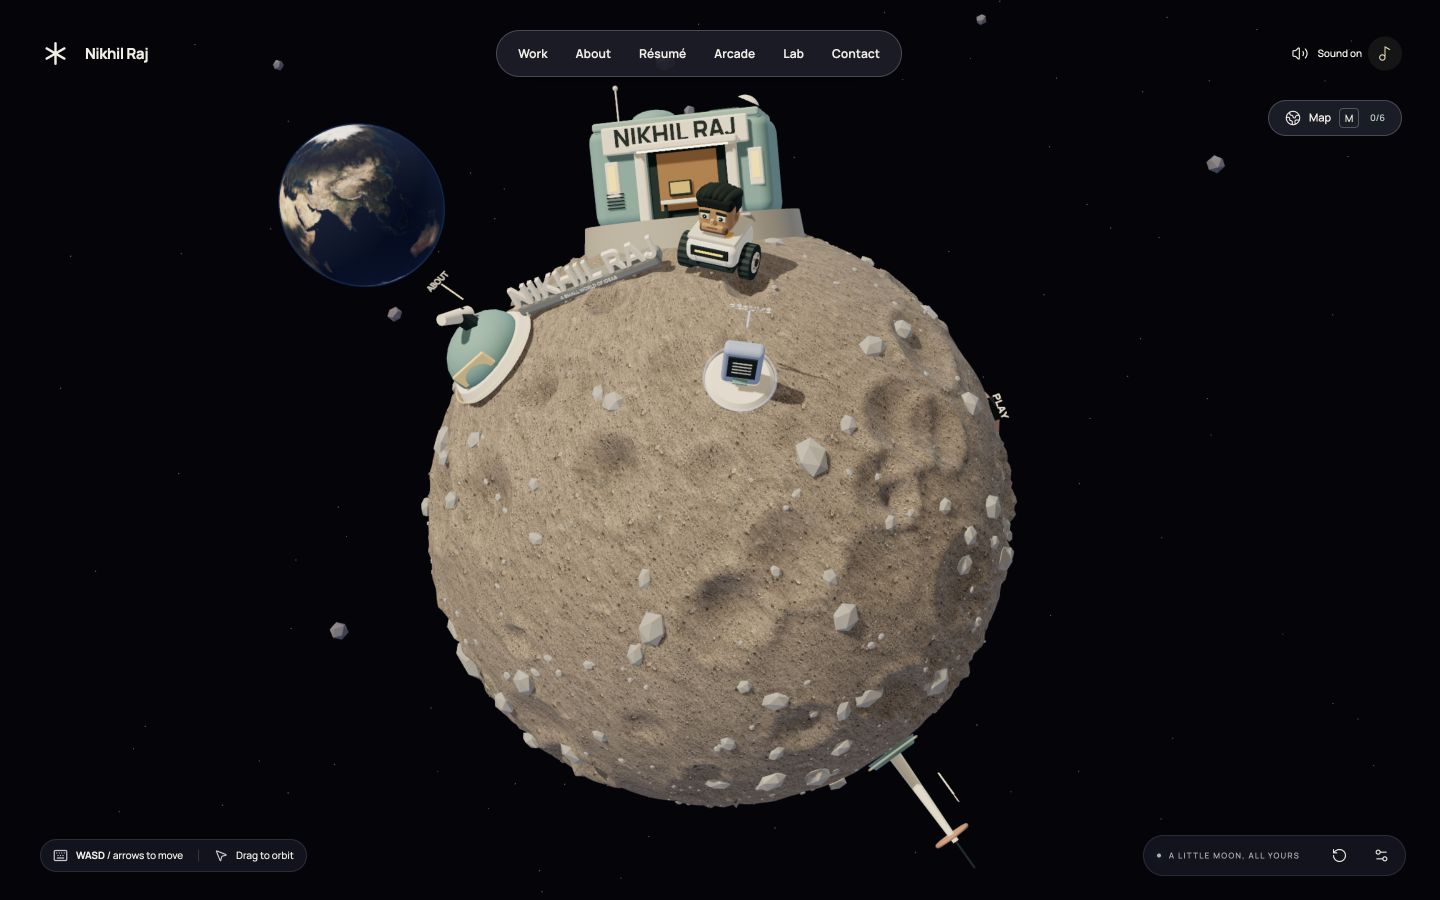
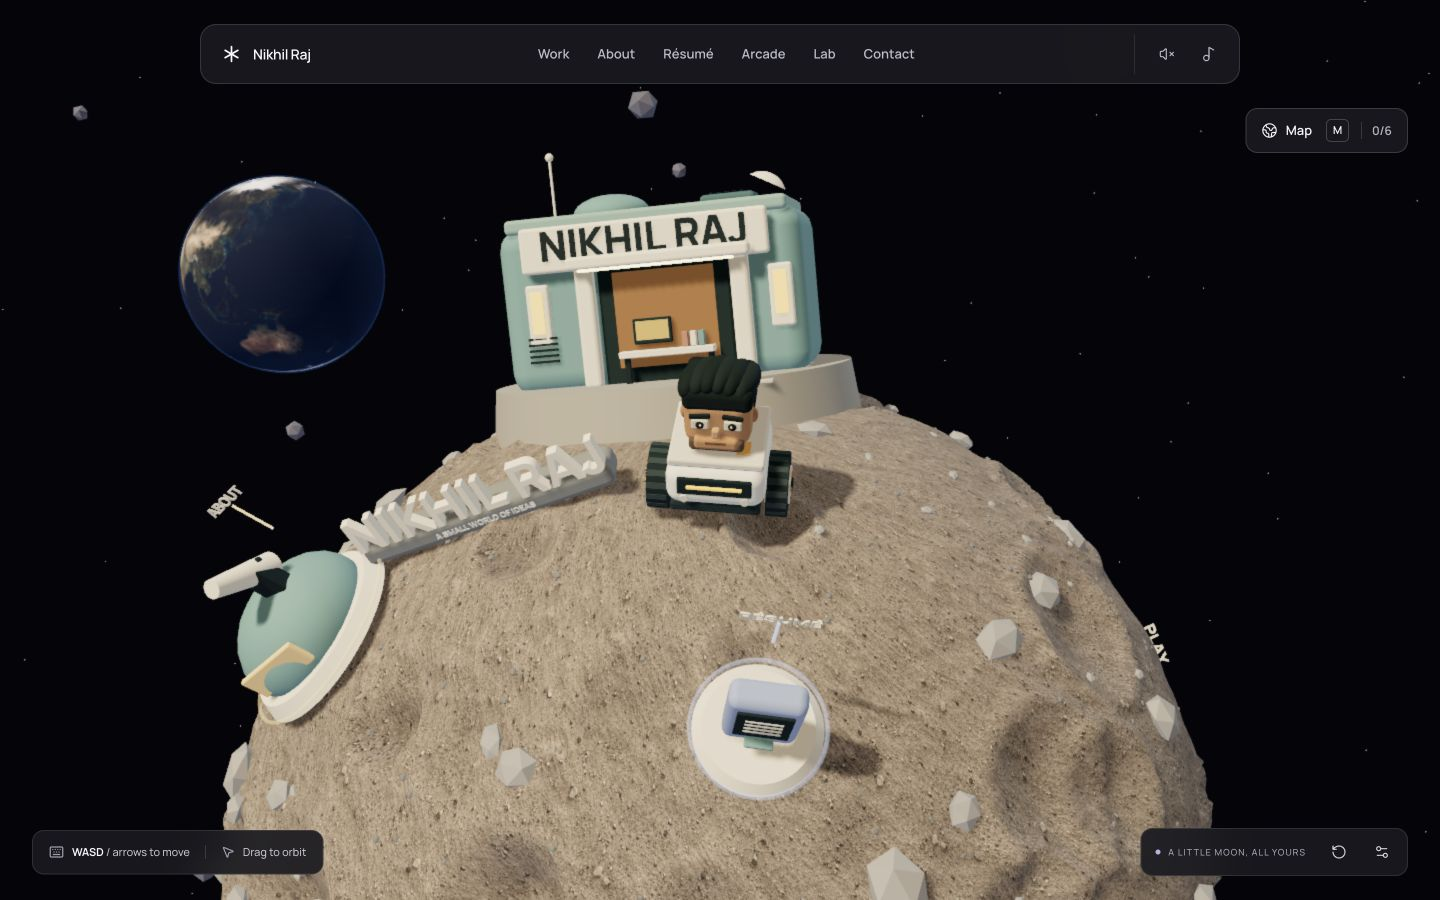
docs: publish refreshed interface screenshots and verification notes

diff --git a/README.md b/README.md
@@ -6,7 +6,7 @@
 
 A playable 3D portfolio on a tiny moon. Drive a curious robot, explore the entire sphere, and follow a few ideas into space.
 
-[Explore the moon](https://nikhil-lunar-toybox.nikhil-063.workers.dev) · [Run locally](#run-locally) · [Controls](#controls) · [Six destinations](docs/MOON-STOPS.md)
+[Explore the moon](https://nikhil-lunar-toybox.nikhil-063.workers.dev) · [Run locally](#run-locally) · [Controls](#controls) · [Six destinations](docs/MOON-STOPS.md) · [Design system](docs/DESIGN-SYSTEM.md)
 
 ![Three.js](https://img.shields.io/badge/Three.js-3D_world-111111?logo=threedotjs)
 ![TypeScript](https://img.shields.io/badge/TypeScript-strict-3178C6?logo=typescript&logoColor=white)
@@ -28,6 +28,14 @@ There is no “enter” button. Your first movement wakes the robot and eases th
 - **Considerate defaults.** Music starts off. Audio unlocks with an interaction. Sound preferences persist, hidden tabs pause playback, and motion follows the device preference.
 
 This build includes six destinations, a supplied backend résumé, two playable arcade games, interactive orbit sketches, optional visit stamps and a far-side postcard camera. Additional projects, biography, experience, field notes and unconfirmed contact details intentionally remain empty.
+
+## A considered interface
+
+The moon sits behind a quiet floating navigation bar. Content opens in light, neutral panels with Manrope throughout, clear card hierarchy, subtle violet selection states and consistent actions. The interface uses free shadcn/ui and Radix foundations, Magic UI reveals, and Motion; the [reference study and CARP rules](docs/DESIGN-SYSTEM.md) explain the design decisions.
+
+![Selected work — image-led project card and the new neutral interface](docs/images/interface-work.png)
+
+All six portfolio stops, the map, arcade, experiments, résumé, contact and settings share the same design system. Mobile panels scroll internally while their heading and return action stay visible. Desktop games put controls beside the board. Original résumé documents retain their supplied formatting.
 
 ## Controls
 
@@ -87,7 +95,8 @@ src/
   visitor-flight.ts    Randomized spacecraft paths
   audio-mix.ts         Sound states, gains and transitions
   audio.ts             Playback, gesture unlock and saved preferences
-  lunar-app.tsx        Portfolio panels and controls
+  lunar-app.tsx        World, audio, panel and focus coordination
+  portfolio-panels.tsx Work, profile, résumé, contact and lab card compositions
   destinations.ts     Typed stops, footprints and collision-safe quick travel
   destination-ui.tsx  Accessible globe map and interactive orbit sketches
   arcade-rules.ts     Pure Snake and Snakes & Ladders rules
@@ -102,7 +111,7 @@ scripts/               Model export and guarded deployment
 tests/                 Focused behavior checks
 ```
 
-Edit `src/content.ts` for identity and contact details, and `src/lunar-app.tsx` for project cards, experience and field notes. Unconfigured contact links are intentionally omitted. The supplied résumé is preserved unchanged; its statements are not used to fill biography or experience automatically. Update its PDF and preview together. Optional visit stamps and game records are stored locally and tolerate blocked storage. See [editing, storage and source boundaries](docs/MOON-STOPS.md). The optional `nikhil-bot.glb` is an interchange export; regenerate it with `npm run export:robot`.
+Edit `src/content.ts` for identity and contact details, and `src/portfolio-panels.tsx` for project cards, experience and field notes. Unconfigured contact links are intentionally omitted. The supplied résumé is preserved unchanged; its statements are not used to fill biography or experience automatically. Update its PDF and preview together. Optional visit stamps and game records are stored locally and tolerate blocked storage. See [editing, storage and source boundaries](docs/MOON-STOPS.md). The optional `nikhil-bot.glb` is an interchange export; regenerate it with `npm run export:robot`.
 
 Diagnostic routes: `?debug=1` exposes read-only world/audio data, `?renderer=webgl` selects the fallback renderer, `?quality=low` lowers rendering cost, and `?flat=1` opens the simple portfolio.
 

diff --git a/docs/UI-VERIFICATION.md b/docs/UI-VERIFICATION.md
@@ -1,0 +1,25 @@
+# Interface verification — 8 October 2026
+
+## Scope
+
+UI redesign after `ee17d50`. World geometry, movement, collision rules, audio assets, destination data and original résumé files are unchanged. The new interface is documented in [DESIGN-SYSTEM.md](DESIGN-SYSTEM.md).
+
+## Checks performed
+
+- Production TypeScript/Vite build and the 33 existing behavior tests pass. Vite continues to report the existing upstream `use client` notices and large renderer/application chunks.
+- Browser review at 1440×900, 1280×720 and 390×844: navigation; all six portfolio panels; map; settings; both arcade games; orbit experiment; simple portfolio mode.
+- At 390px, all six panels had equal content client/scroll widths: no horizontal content overflow. The outer dialog was 370px wide with 10px viewport margins.
+- Manrope reported loaded via `document.fonts.check('16px Manrope')`. Computed typography across headings, body copy, buttons, links, keyboard hints, outputs and SVG labels uses `Manrope, Inter, sans-serif`.
+- Snake: start, steer, pause, restart and exit. Snakes & Ladders: start and roll; landing/transition status updates. Existing game-rule tests also pass.
+- Map: hemisphere switch, destination selection, route beacon/cancel, and opening a selected destination's content.
+- Keyboard volume adjustment updates the displayed value; the original value was restored after verification.
+- Browser confirmed primary anchor CTAs render white on `rgb(36, 36, 42)`. Touch movement controls measure 44×44px after the specificity correction.
+- The visible soundscape credit links to `elevenlabs.io`. Original downloadable résumé paths are preserved.
+
+## Review and corrections
+
+An independent read-only code review examined `ee17d50..e36b56e` and independently ran all 33 tests. It found no critical issues and identified four corrections, all applied: anchor button text contrast, preservation of the existing ElevenLabs attribution, accessible names that match visible game labels, and touch-control sizing.
+
+Browser QA additionally found that opening a destination from a scrolled map carried the map's scroll position into the next panel. Panel bodies now remount per destination and focus moves to the new heading. The persistent dialog shell keeps the close/return actions reachable while content scrolls.
+
+Screenshots in `docs/images/` are actual browser captures of the local production build. These checks are not a claim of exhaustive accessibility certification or testing on every physical browser/device.
